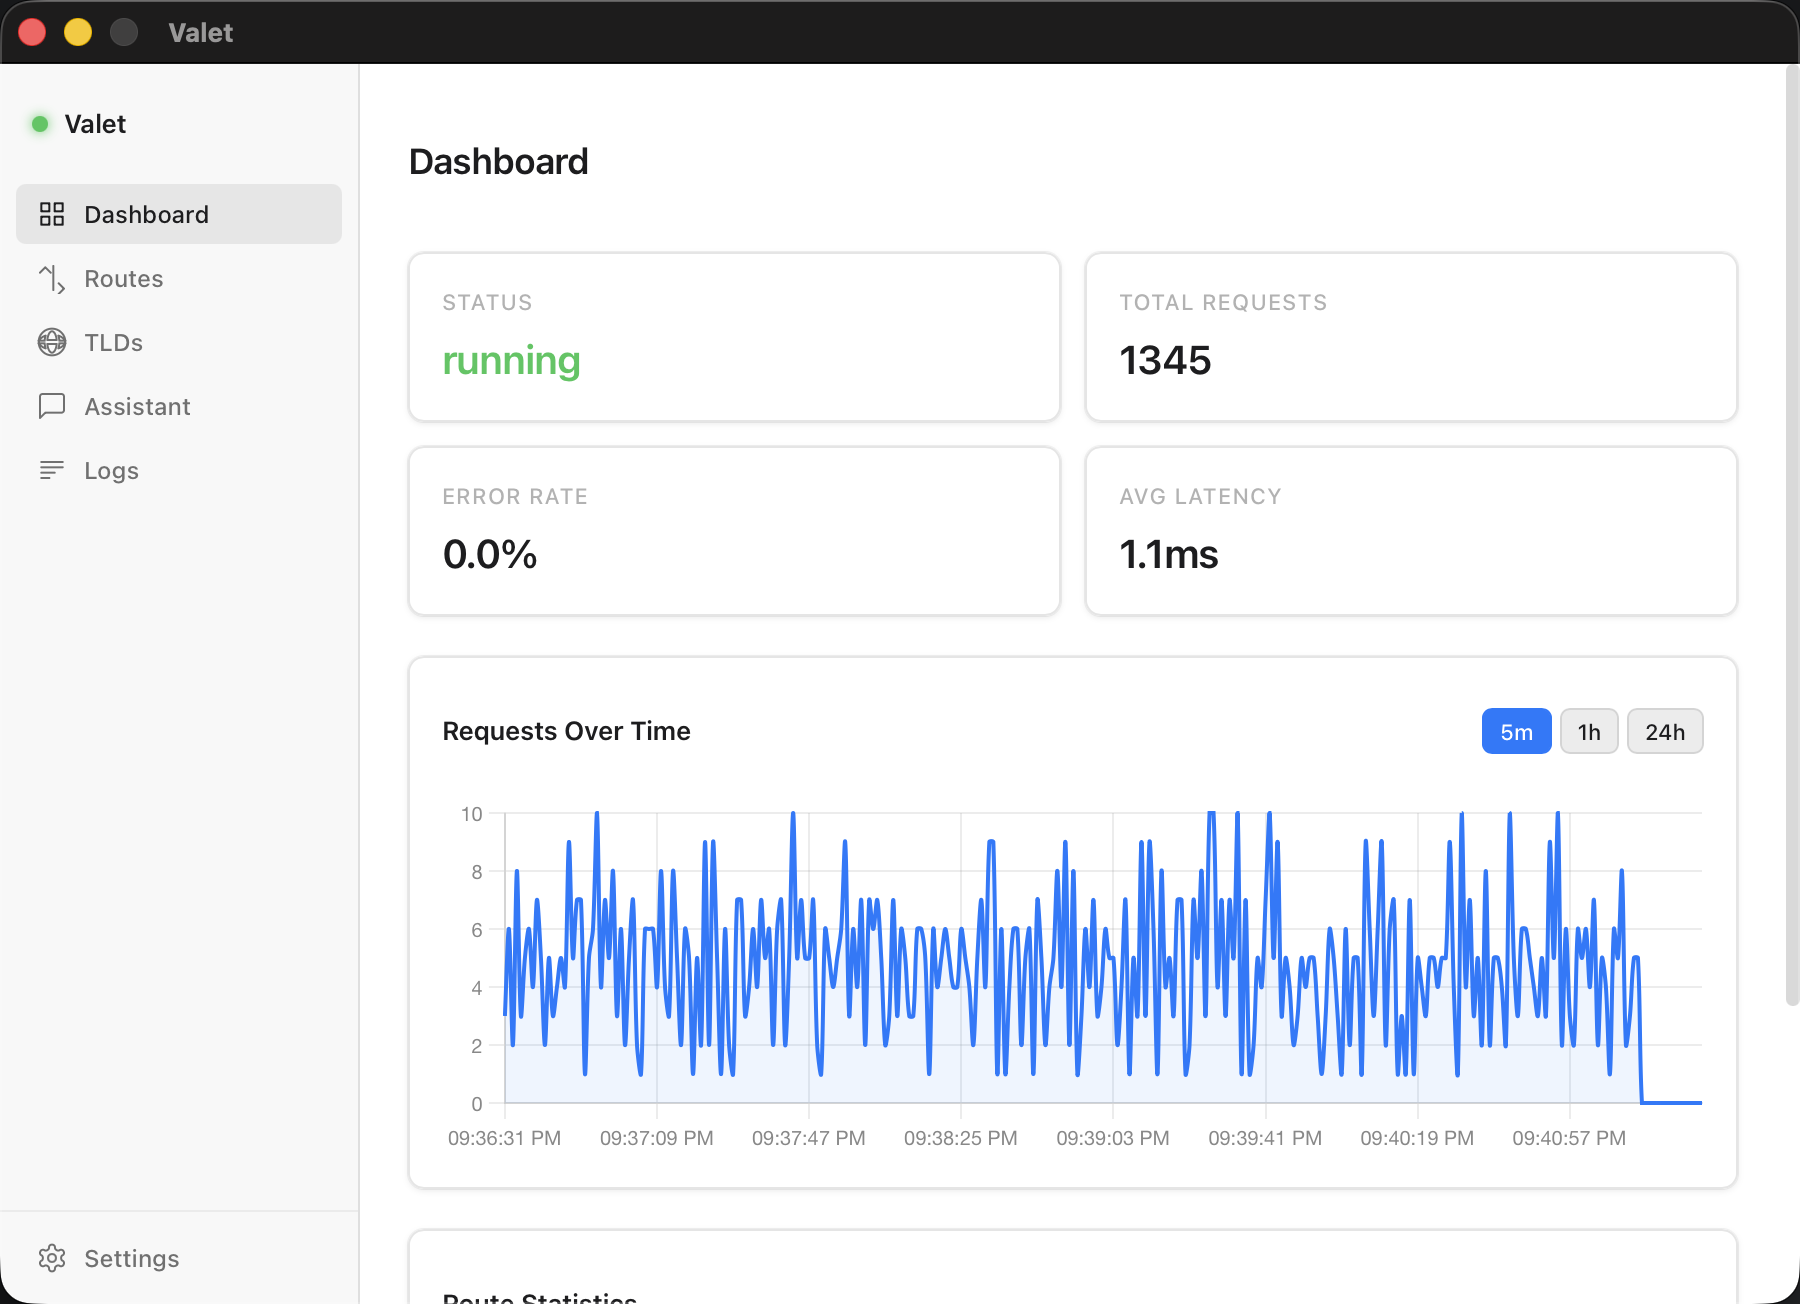
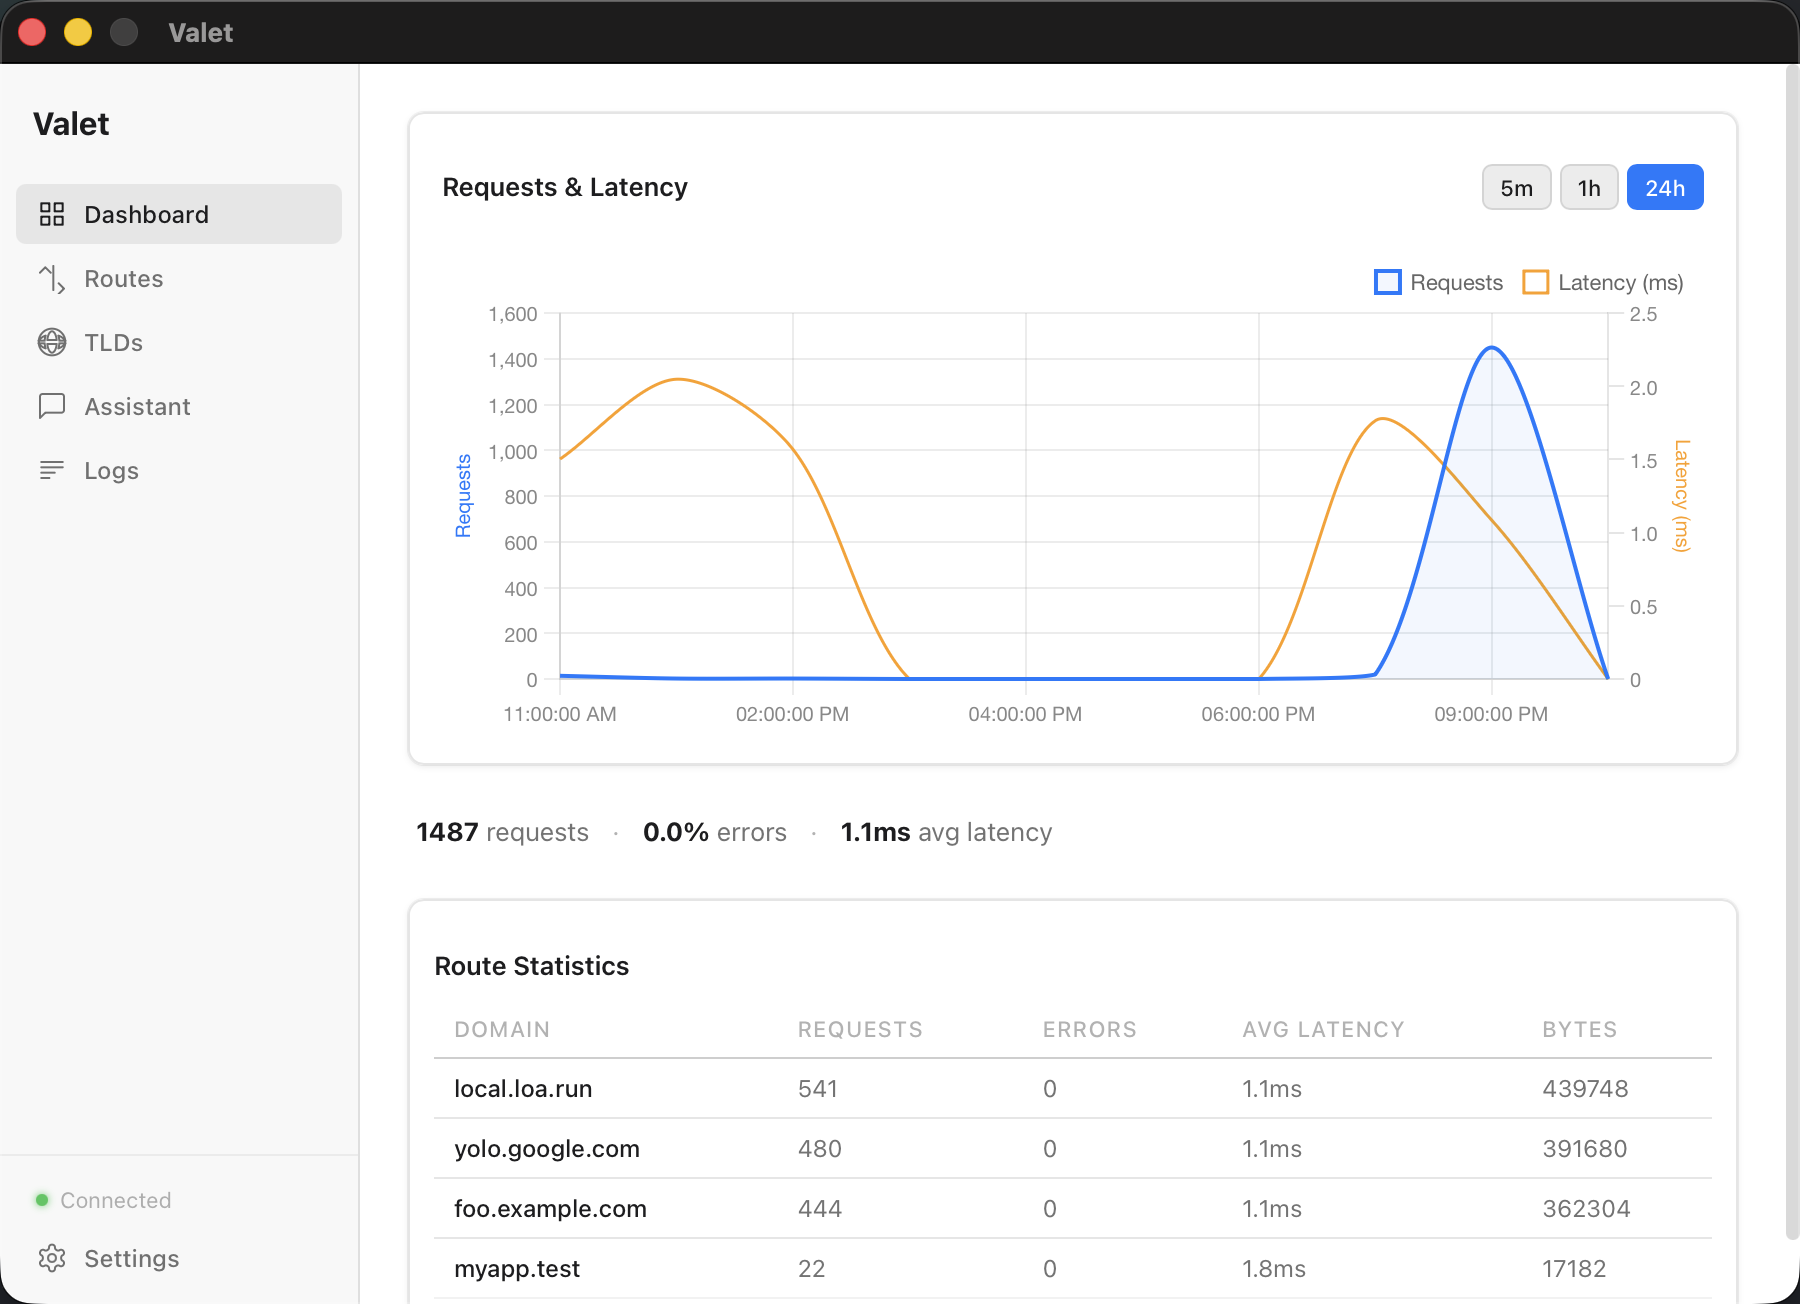
Update screenshots with new dashboard design + assistant
- Dashboard: dual-axis chart (requests + latency), compact stats, no cards
- Sidebar: bold Valet, daemon status at bottom
- All views recaptured with new design
- Added AI assistant screenshot to README

diff --git a/README.md b/README.md
@@ -53,7 +53,9 @@ See every request and DNS query flowing through Valet with live-updating log tab
 
 ### AI Assistant
 
-An in-app AI assistant powered by ADK that can manage routes, diagnose issues, and configure your entire setup through natural language. Works with Ollama, or any OpenAI-compatible endpoint.
+An in-app AI assistant that can manage routes, register DNS entries, diagnose issues, and configure your entire setup through natural language. Conversation history persists across restarts.
+
+![AI Assistant](docs/images/assistant.png)
 
 ### MCP Server for Claude Code
 
